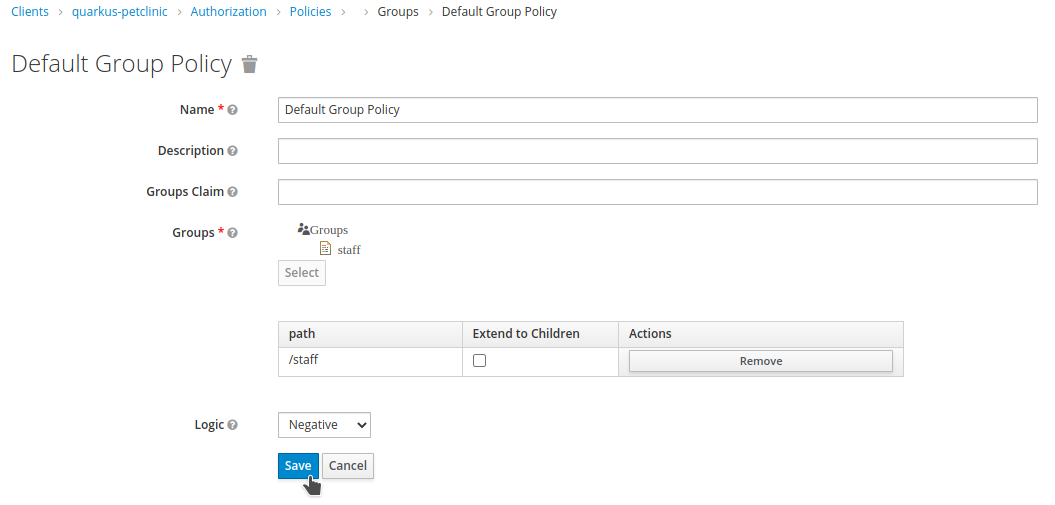
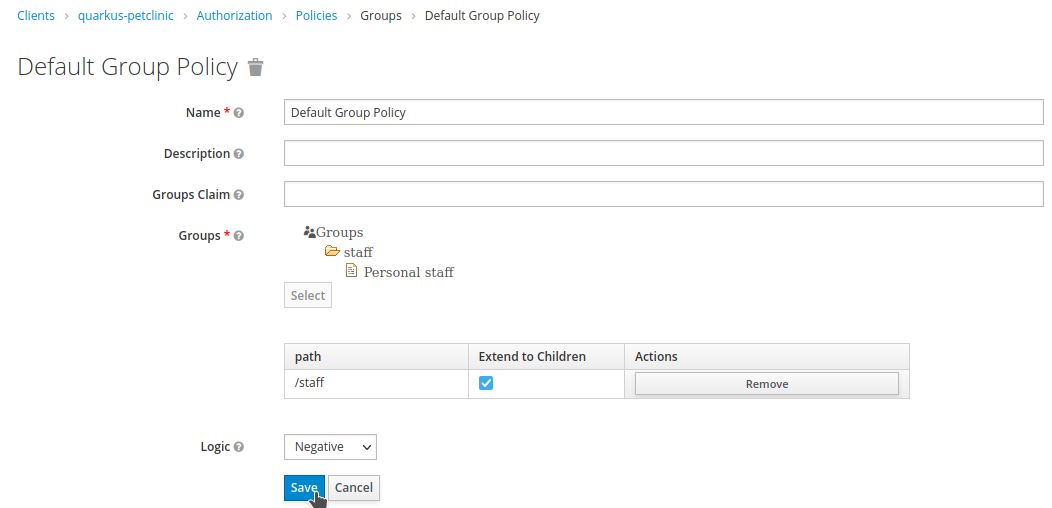
Deploying to gh-pages from @ aolle/rhsso-workshop@165686c6ceab816827ca1628dbdd3af9e58c35c3 🚀

diff --git a/secapp.html b/secapp.html
@@ -274,13 +274,28 @@
 <div class="ulist">
 <ul>
 <li>
-<p>Click the <code>Role Mappings</code> tab. Add <code>assistant</code> and <code>vet</code> as <code>Assigned Roles</code>.</p>
+<p>Create the subgroup named <code>Personal staff</code>. Click again on <code>Groups</code>.</p>
+</li>
+<li>
+<p>Select <code>staff</code> and click <code>New</code>.</p>
 </li>
 </ul>
 </div>
 <div class="imageblock">
 <div class="content">
-<img src="_images/secapp/staff-roles.png" alt="staff roles">
+<img src="_images/secapp/new-subgroup.png" alt="new subgroup">
+</div>
+</div>
+<div class="ulist">
+<ul>
+<li>
+<p>Set <code>Personal Staff</code> as the Name and click <code>Save</code>.</p>
+</li>
+</ul>
+</div>
+<div class="imageblock">
+<div class="content">
+<img src="_images/secapp/subgroup.png" alt="subgroup">
 </div>
 </div>
 </div>
@@ -489,7 +504,7 @@ Write down the application URL; it will be required during the security configur
 <div class="ulist">
 <ul>
 <li>
-<p>Set <code>Default Group Policy</code> as the <code>Name</code>. Select <code>staff</code> from the <code>Groups</code> list, click <code>Select</code>. Be sure that the <code>Logic</code> is set to <code>Negative</code>. Finally, click <code>Save</code>.</p>
+<p>Set <code>Default Group Policy</code> as the <code>Name</code>. Select <code>staff</code> from the <code>Groups</code> list, click <code>Select</code>. Be sure that the <code>Logic</code> is set to <code>Negative</code>. Extend to Children checked (we will use this logic in later chapters). Finally, click <code>Save</code>.</p>
 </li>
 </ul>
 </div>

diff --git a/setup.html b/setup.html
@@ -134,6 +134,9 @@
 <li>
 <p>Red Hat Single Sign-On <code>v7.6</code></p>
 </li>
+<li>
+<p>FreeIPA <code>4.9.8</code></p>
+</li>
 </ul>
 </div>
 </td>
